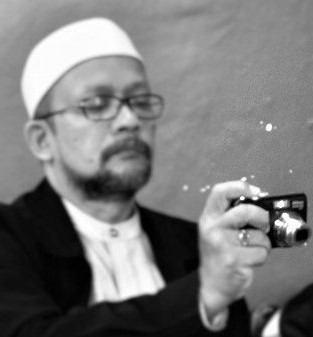
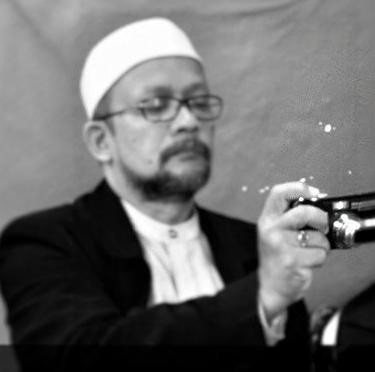
fix: stop propagation at edit and delete button on patients page

diff --git a/src/pages/Patients/Patients.jsx b/src/pages/Patients/Patients.jsx
@@ -295,10 +295,12 @@ export default function Patients() {
                   <TableCell className="max-w-xs truncate">{p.address || '-'}</TableCell>
                   <TableCell className="text-right">
                     <div className="flex justify-end gap-2">
-                      <Button size="sm" variant="outline" onClick={() => openEdit(p)}>
+                      <Button size="sm" variant="outline" 
+                        onClick={(e) => { e.stopPropagation(); openEdit(p) }}>
                         Edit
                       </Button>
-                      <Button size="sm" variant="destructive" onClick={() => openDelete(p)}>
+                      <Button size="sm" variant="destructive" 
+                        onClick={(e) => { e.stopPropagation(); openDelete(p) }}>
                         Hapus
                       </Button>
                     </div>

diff --git a/src/pages/Landing/Landing.jsx b/src/pages/Landing/Landing.jsx
@@ -316,9 +316,9 @@ html { scroll-behavior: smooth; }
 .l-doc-bio { font-size: 0.85rem; color: #4a5e4b; line-height: 1.82; margin-bottom: 1.25rem; }
 .l-doc-creds { display: flex; flex-wrap: wrap; gap: 0.55rem; margin-bottom: 1.5rem; }
 .l-cred { background: white; border: 1px solid #E8DCC8; border-radius: 8px; padding: 0.38rem 0.8rem; font-size: 0.73rem; color: #4a5e4b; font-weight: 700; }
-.l-doc-timeline { border-left: 2px solid #C5943A; padding-left: 1.25rem; }
+.l-doc-timeline { border-left: 2px solid #C5943A; padding-left: 1.18rem; }
 .l-tl-item { margin-bottom: 0.9rem; position: relative; }
-.l-tl-item::before { content: ''; position: absolute; left: -1.44rem; top: 0.35rem; width: 8px; height: 8px; border-radius: 50%; background: #C5943A; }
+.l-tl-item::before { content: ''; position: absolute; left: -1.48rem; top: 0.35rem; width: 8px; height: 8px; border-radius: 50%; background: #C5943A; }
 .l-tl-item:last-child { margin-bottom: 0; }
 .l-tl-role { font-size: 0.82rem; font-weight: 700; color: #2C3E2D; }
 .l-tl-place { font-size: 0.73rem; color: #7A9E7E; margin-top: 0.1rem; }

diff --git a/src/components/AppLayout.jsx b/src/components/AppLayout.jsx
@@ -30,7 +30,7 @@ const navItems = [
   { label: 'Beranda',            path: '/',                icon: '🏠' },
   { label: 'Pasien',             path: '/patients',        icon: '👤' },
   { label: 'Kunjungan',          path: '/visits',          icon: '🏥' },
-  { label: 'Lab',                path: '/lab',             icon: '🩸' },
+  { label: 'Cek Lab',                path: '/lab',             icon: '🩸' },
   { label: 'Konsultasi',         path: '/consultations',   icon: '📋' },
   { label: 'Keuangan Harian',    path: '/finance',         icon: '💰' },
   { label: 'Keuangan Bulanan',   path: '/finance/monthly', icon: '📅' },